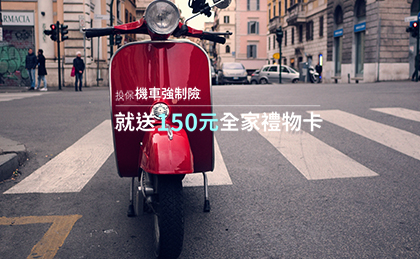
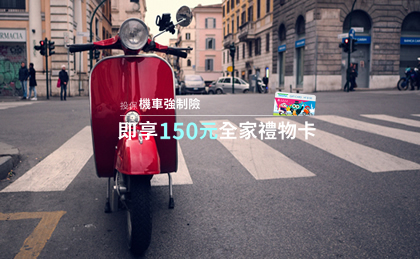
newest updated

diff --git a/motorSite/src/components/motorFormPage.vue b/motorSite/src/components/motorFormPage.vue
@@ -270,7 +270,7 @@
             </div>
             <div class="col-sm-3">
               <div class="selectWrapper" v-bind:class="{errorShow:releaseMotoYearInValid}">
-                <select @click="toShowMotoDateExample" class="form-control" @change="validateMotoYear" v-model="releaseMotoYearDate" name="releaseMotoYearDate" id="releaseMotoYearDate">
+                <select @click="toShowMotoDateExample('firstInput')" @change="validateMotoYear('firstInput')" class="form-control" v-model="releaseMotoYearDate" name="releaseMotoYearDate" id="releaseMotoYearDate">
                   <option value="">西元年</option>
                   <option v-for=" year in westernYear ">{{ year }}年</option>
                 </select>
@@ -729,10 +729,15 @@ export default {
       this.carLicenseExample = false
       this.brandExample = false
     },
-    toShowMotoDateExample: function () {
-      this.validateReleasePlateYear()
-      this.validateReleasePlateMonth('last')
-      this.validateReleasePlateDay()
+    toShowMotoDateExample: function (inputVal) {
+      if (inputVal === 'firstInput') {
+
+      } else {
+        this.validateReleasePlateYear()
+        this.validateReleasePlateMonth('last')
+        this.validateReleasePlateDay()
+      }
+
       this.engineNumExample = false
       this.airProduceExample = false
       this.issuedDayExample = false
@@ -992,31 +997,38 @@ export default {
         }
       }
     },
-    validateMotoYear: function () {
-      let y = new Date().getFullYear()
-      let year = parseInt(this.releaseMotoYearDate.slice(0, 4))
-      let m = new Date().getMonth() + 1
-      let month = parseInt(this.releaseMotoMonthDate.slice(0, 2))
-      if (!this.releaseMotoYearDate) {
-        this.releaseMotoYearInValid = true
-        this.releaseMotoMonthInValid = true
-        this.releaseMotoYearErrorMsg = '請選擇出廠年月。'
-        return false
-      } else {
-        if (year >= y && month > m) {
+    validateMotoYear: function (valueOfInput) {
+      if (valueOfInput === 'firstInput') {
+        if (!this.releaseMotoYearDate) {
           this.releaseMotoYearInValid = true
-          this.releaseMotoMonthInValid = true
-          this.releaseMotoYearErrorMsg = '出廠年月不得超過今月。'
-          return false
-        } else if ((!year) || (!month)) {
+          this.releaseMotoYearErrorMsg = '請選擇出廠年月。'
+        }
+      } else {
+        let y = new Date().getFullYear()
+        let year = parseInt(this.releaseMotoYearDate.slice(0, 4))
+        let m = new Date().getMonth() + 1
+        let month = parseInt(this.releaseMotoMonthDate.slice(0, 2))
+        if (!this.releaseMotoYearDate) {
           this.releaseMotoYearInValid = true
           this.releaseMotoMonthInValid = true
           this.releaseMotoYearErrorMsg = '請選擇出廠年月。'
           return false
         } else {
-          this.releaseMotoYearInValid = false
-          this.releaseMotoMonthInValid = false
-          return true
+          if (year >= y && month > m) {
+            this.releaseMotoYearInValid = true
+            this.releaseMotoMonthInValid = true
+            this.releaseMotoYearErrorMsg = '出廠年月不得超過今月。'
+            return false
+          } else if ((!year) || (!month)) {
+            this.releaseMotoYearInValid = true
+            this.releaseMotoMonthInValid = true
+            this.releaseMotoYearErrorMsg = '請選擇出廠年月。'
+            return false
+          } else {
+            this.releaseMotoYearInValid = false
+            this.releaseMotoMonthInValid = false
+            return true
+          }
         }
       }
     },

diff --git a/motorSite/index.html b/motorSite/index.html
@@ -11,11 +11,11 @@
     <script type="text/javascript" src="static/js/jqeury.js?v=3"></script>
     <script type="text/javascript" src="static/js/bootstrap.min.js?v=3"></script>
     <script type="text/javascript" src="static/js/axios.min.js?v=9"></script>
-    <script type="text/javascript" src="static/js/myCustomer.js?v=3"></script>
+    <script type="text/javascript" src="static/js/myCustomer.js?v=4"></script>
     <link rel="stylesheet" href="static/css/animate.css?v=9">
     <link rel="stylesheet" href="static/css/bootstrap.min.css?v=9">
     <link rel="stylesheet" href="static/css/font-awesome.min.css?v=9">
-    <link rel="stylesheet" href="static/css/myCustomer.css?v=9">
+    <link rel="stylesheet" href="static/css/myCustomer.css?v=8">
     <link rel="stylesheet" href="static/css/myCustomerForm.css?v=9">
     <link rel="stylesheet" href="static/css/process.css?v=1">
     <script type="text/javascript" src="/CareLineMotor/motorbike-mbr/data/script/fbpixel"></script>
@@ -30,28 +30,36 @@
     <meta property="og:site_name" content="英國凱萊CareLine 網路保險" >
     <meta property="og:email" content="service@careline.com.tw" >
     <meta property="og:email" content="0800234088" >
-
+  </head>
+  <body>
+    <div id="app"></div>
+    <!-- built files will be auto injected -->
     <script type="text/javascript">
       var getWinLocation = window.location.href.slice(0, 27);
       if (getWinLocation === 'https://www.careline.com.tw') {
-        // Crazy Egg
-        setTimeout(function(){var a=document.createElement("script");
-        var b=document.getElementsByTagName("script")[0];
-        a.src=document.location.protocol+"//script.crazyegg.com/pages/scripts/0066/5397.js?"+Math.floor(new Date().getTime()/3600000);
-        a.async=true;a.type="text/javascript";b.parentNode.insertBefore(a,b)}, 1);
         // google conversion code
+        /* <![CDATA[ */
         var google_conversion_id = 875004283;
         var google_conversion_language = "en";
         var google_conversion_format = "3";
         var google_conversion_color = "ffffff";
         var google_conversion_label = "7ARdCI3tuXIQ-4KeoQM";
         var google_remarketing_only = false;
+        /* ]]> */
+
+        // Crazy Egg
+        setTimeout(function(){var a=document.createElement("script");
+          var b=document.getElementsByTagName("script")[0];
+          a.src=document.location.protocol+"//script.crazyegg.com/pages/scripts/0066/5397.js?"+Math.floor(new Date().getTime()/3600000);
+          a.async=true;a.type="text/javascript";b.parentNode.insertBefore(a,b)}, 1);
       }
     </script>
-
-  </head>
-  <body>
-    <div id="app"></div>
-    <!-- built files will be auto injected -->
+    <noscript>
+      <img height=1 width=1 border=0
+           src="//www.googleadservices.com/pagead/
+		conversion/1234567890/
+		?value=10.0&amp;currency_code=USD&amp;label=xxx-
+		XXx1xXXX123X1xX&amp;guid=ON&amp;script=0">
+    </noscript>
   </body>
 </html>

diff --git a/motorSite/src/components/failPayment.vue b/motorSite/src/components/failPayment.vue
@@ -34,10 +34,12 @@
         <div class="col-sm-12 thanksDiv">
           <div class="col-sm-12 text-center" style="margin-bottom:10px; padding-top:10%;">
             <h2>付款失敗</h2>
-            <h3 style=" margin-bottom: 20px;border:none;">銀行系統維護中, 錯誤代碼 {{errorCode}}</h3>
+            <h3 style=" margin-bottom: 20px;border:none;"><span v-show="!errorCodeE3001">銀行系統維護中,</span>錯誤代碼: {{errorCode}}<span  v-show="errorCodeE3001">發卡銀行拒絕授權</span></h3>
             <img src="../assets/failPayment.png" alt="img-responsive" style="height:100px; width:auto;">
-            <h4 style="border-bottom:none;margin-top:30px;">請洽原發卡行詢問或再重新操作一次，</h4>
-            <h4>若仍需要協助請撥打英國凱萊客服專線洽詢，英國凱萊感謝您。</h4>
+            <h4 v-show="errorCodeE3001" style="border-bottom:none;margin-top:30px;">請洽原發卡行詢問或撥打英國凱萊客服專線洽詢，</h4>
+            <h4 v-show="errorCodeE3001">英國凱萊感謝您。</h4>
+            <h4 v-show="!errorCodeE3001" style="border-bottom:none;margin-top:30px;">請洽原發卡行詢問或再重新操作一次，</h4>
+            <h4 v-show="!errorCodeE3001">若仍需要協助請撥打英國凱萊客服專線洽詢，英國凱萊感謝您。</h4>
           </div>
           <div class="col-sm-12">
             <div class="thanksWords text-center">
@@ -97,7 +99,8 @@ export default {
     return {
       visible: false,
       errorMsgOfFailSent: '',
-      errorCode: ''
+      errorCode: '',
+      errorCodeE3001: false
     }
   },
   head: {
@@ -205,6 +208,9 @@ export default {
         return false
       } else {
         this.errorCode = response.data.statusCode
+        if (this.errorCode === 'E001') {
+          this.errorCodeE3001 = true
+        }
       }
     }, response => {
       // error callback

diff --git a/motorSite/src/components/formPage.vue b/motorSite/src/components/formPage.vue
@@ -508,7 +508,7 @@
           <div class="col-sm-6">
             <div class="col-sm-12 contractRules">
               <p><input type="checkbox" v-model="agreementRead" name="agreementCheckBox">
-                我已閱讀 << <a @click="principleAnnounce" href="/CareLineMotor/motorbike-mbr/viewpdf/announcement" target="_blank">網絡保險服務聲明事項</a> >> ， << <a href="/CareLineMotor/motorbike-mbr/viewpdf/protection" target="_blank" @click="showPersonalAnnouce">產險業履行個人資料保護法告知義務內容</a> >>文件，並同意。</p>
+                我已閱讀 << <a @click="principleAnnounce" href="/CareLineMotor/motorbike-mbr/viewpdf/announcement" target="_blank">網絡保險服務聲明事項</a> >> ， << <a href="/CareLineMotor/motorbike-mbr/viewpdf/protection?v=1" target="_blank" @click="showPersonalAnnouce">保險代理人履行個人資料保護法告知義務內容</a> >>文件，並同意。</p>
             </div>
           </div>
         </div>
@@ -1859,7 +1859,6 @@ export default {
     /* eslint-disable */
     var CE_SNAPSHOT_NAME = "要保人資料 | Care Line英國凱萊 機車強制險 | 立刻投保 | Care Line英國凱萊 機車強制險"
     /* eslint-enable */
-
     var formData = JSON.parse(this.$localStorage.get('formStore'))
     if (formData) {
       this.$parent.$parent.applicantData = formData.applicantData

diff --git a/motorSite/src/components/infoPage.vue b/motorSite/src/components/infoPage.vue
@@ -282,6 +282,17 @@
               </ul>
             </div>
           </div>
+          <div class="col-sm-6">
+
+          </div>
+          <div class="col-sm-6">
+            <div class="givenCard text-right">
+              <img src="../assets/pics/kaiTalk.png" alt="">
+              <span>
+              您的150元全家禮物卡將同保卡掛號寄出！
+              </span>
+            </div>
+          </div>
         </div>
       </div>
 
@@ -619,5 +630,32 @@ export default {
     #mobileRWD.container-fluid.toBeingPadding {
       margin-bottom: 25px!important;
     }
+  }
+
+  @media screen and (max-width: 500px) {
+    .givenCard span{
+      font-size: 16px;
+      color: #01a29a;
+      font-weight: 800;
+    }
+  }
+
+  @media screen and (max-width: 320px) {
+    .givenCard span{
+      font-size: 13px;
+      color: #01a29a;
+      font-weight: 800;
+    }
+  }
+
+
+  .givenCard {
+    font-size: 18px;
+    color: #01a29a;
+    font-weight: 800;
+  }
+
+  .givenCard img{
+    margin-bottom: 5px;
   }
 </style>

diff --git a/motorSite/static/css/myCustomer.css b/motorSite/static/css/myCustomer.css
@@ -217,7 +217,7 @@ button.btn.btn-danger.NextButton:hover {
 }
 
 .customerInfo strong {
-  font-size: 20px;
+  font-size: 23px;
 }
 
 @media screen and (min-width: 500px) {
@@ -831,7 +831,7 @@ input.form-control {
   font-size: 20px;
   cursor: pointer;
   border: 2px solid rgba(216, 91, 116, 0.68);
-  margin-top: 45px;
+  margin-top: 55px;
   z-index: 999999999999;
 }
 
@@ -1002,7 +1002,7 @@ input.form-control {
   background-size: contain;
   z-index: 0;
   left: 16%;
-  top: 30%;
+  top: 33%;
 }
 
 @media screen and (max-width: 1120px) {
@@ -1022,6 +1022,18 @@ input.form-control {
 }
 
 @media screen and (max-width: 1378px) {
+  .textDiv {
+    left: 6%;
+  }
+}
+
+@media screen and (max-width: 1200px) and (min-width:1024px) {
+  .textDiv {
+    left: 2%;
+  }
+}
+
+@media screen and (max-width: 1024px) and (min-width:900px) {
   .textDiv {
     left: 1%;
   }

diff --git a/motorSite/src/components/activityPage.vue b/motorSite/src/components/activityPage.vue
@@ -52,6 +52,9 @@
                 </ul>
             </div>
             <div class="col-sm-12" style="">
+              <a href="https://www.facebook.com/kaistraventure/videos/vb.1856981887921157/1930400740579271/?type=2&theater" target="_blank"><span style="color: #0000ff;"><strong style="font-size:18px;">點我看 七月份抽獎直播</strong></span></a>
+            </div>
+            <div class="col-sm-12" style="">
                 <a href="https://goo.gl/Mvjhgb" target="_blank"><span style="color: #0000ff;"><strong style="font-size:18px;">點我看 獎品開箱文</strong></span></a>
             </div>
             <div class="col-sm-12" style="padding:0px;">
